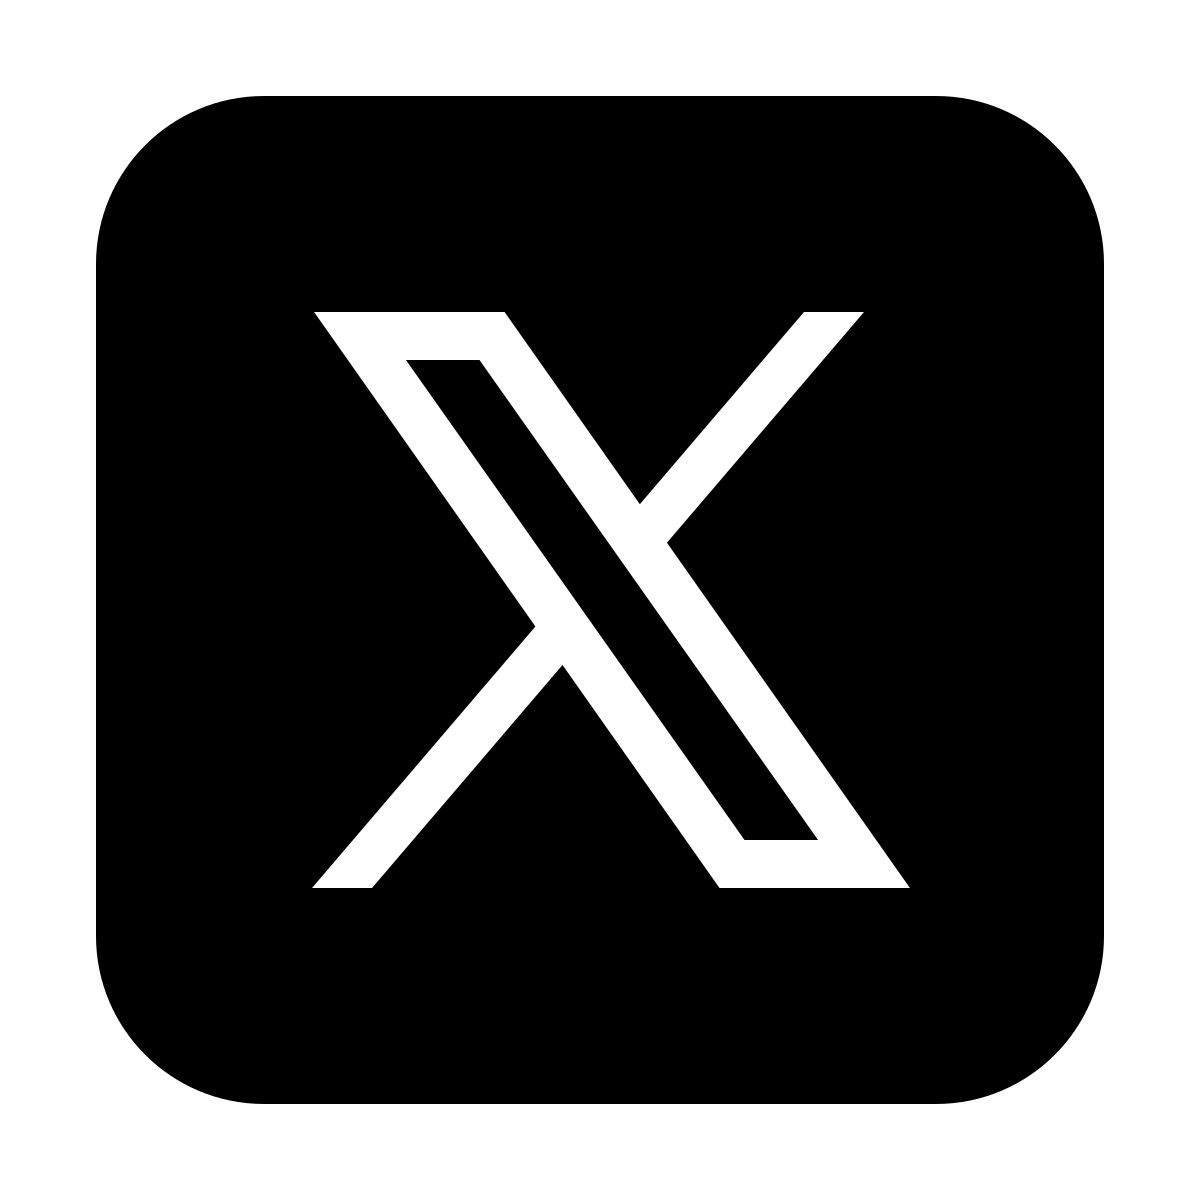
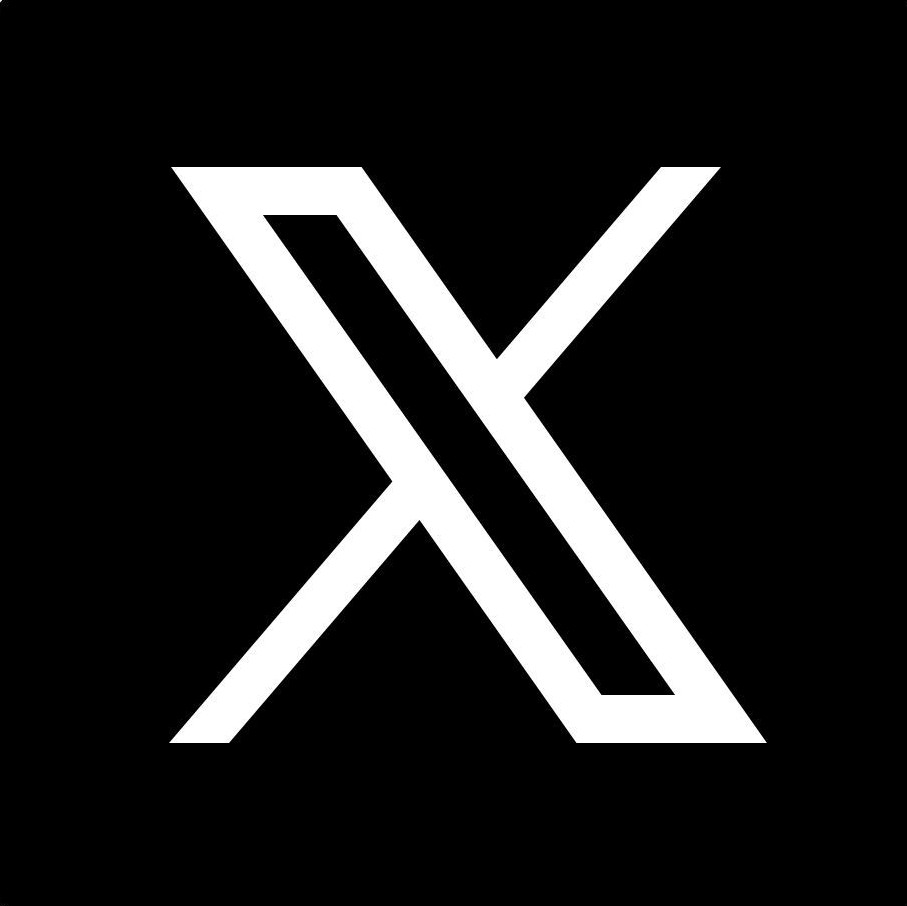
fixing twitterx link

diff --git a/README.md b/README.md
@@ -20,7 +20,7 @@ reporting using tools like Microsoft Excel and SQL
 <a href="https://www.linkedin.com/in/chukwuemeka-onwuka-
 032a5724b" target="_blank" rel="noreferrer"><img src="./images/linkedin.svg" width="36" height="36" alt="linkedin" /></a>
 <a href="https://www.github.com/bobo-webs" target="_blank" rel="noreferrer"><img src="./images/github.png" width="36" height="36" alt="github" /></a>
-<a href="https://www.x.com/@Emekanaki" target="_blank" rel="noreferrer"><img src="./images/twitterx.png" width="36" height="36" alt="x" /></a>
+<a href="https://www.x.com/@Emekanaki" target="_blank" rel="noreferrer"><img src="./images/twitterx.jpg" width="36" height="36" alt="x" /></a>
 </p>
 
 
